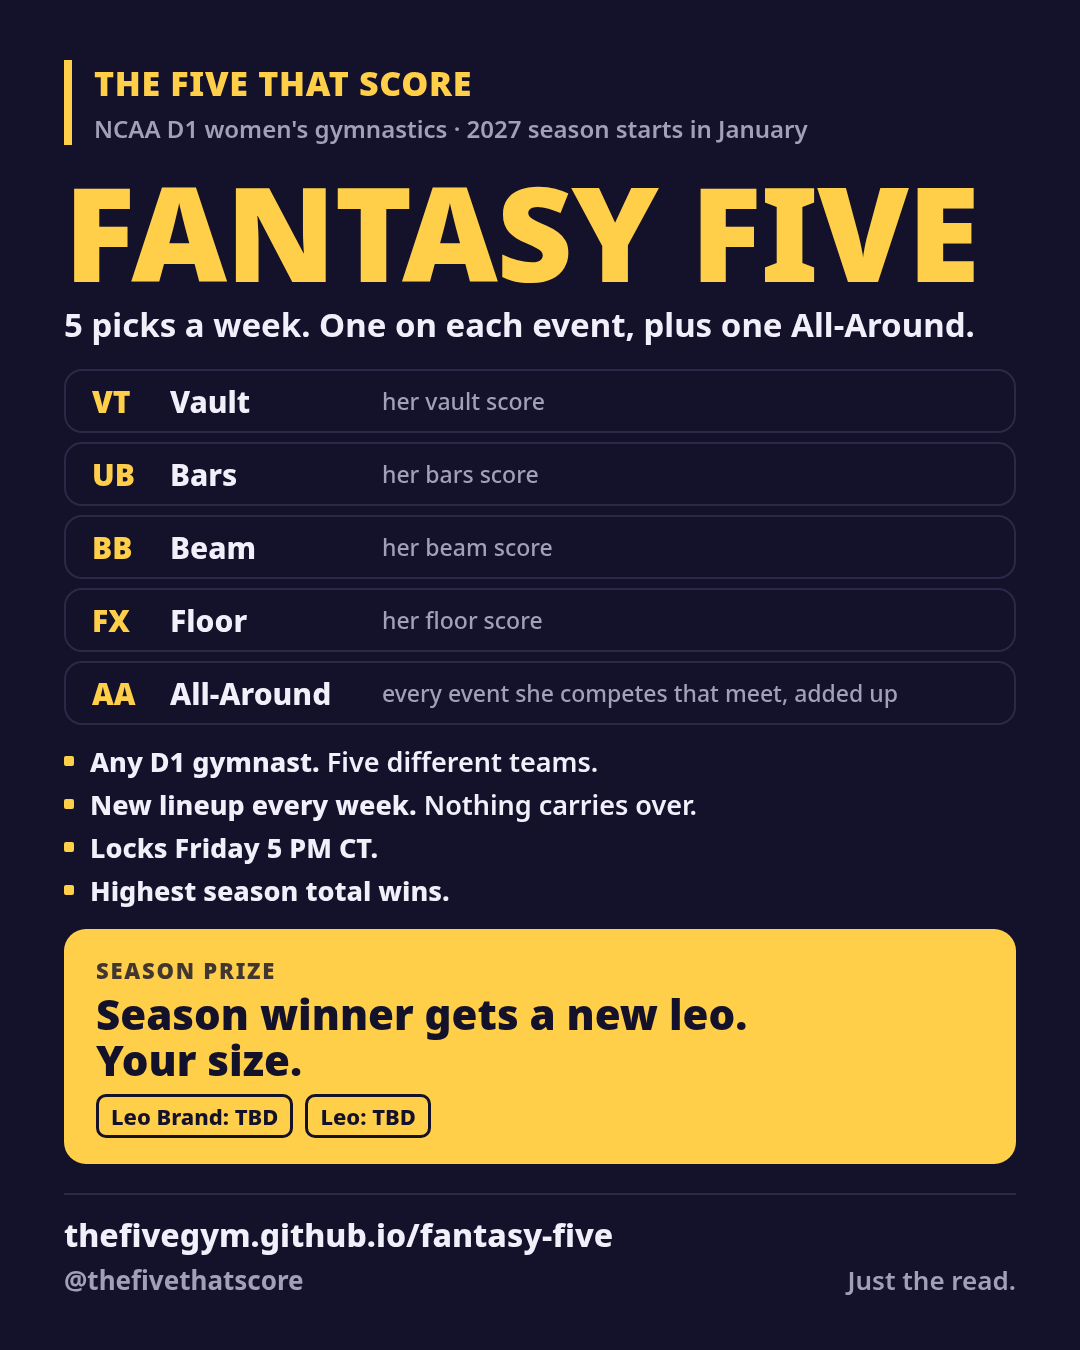
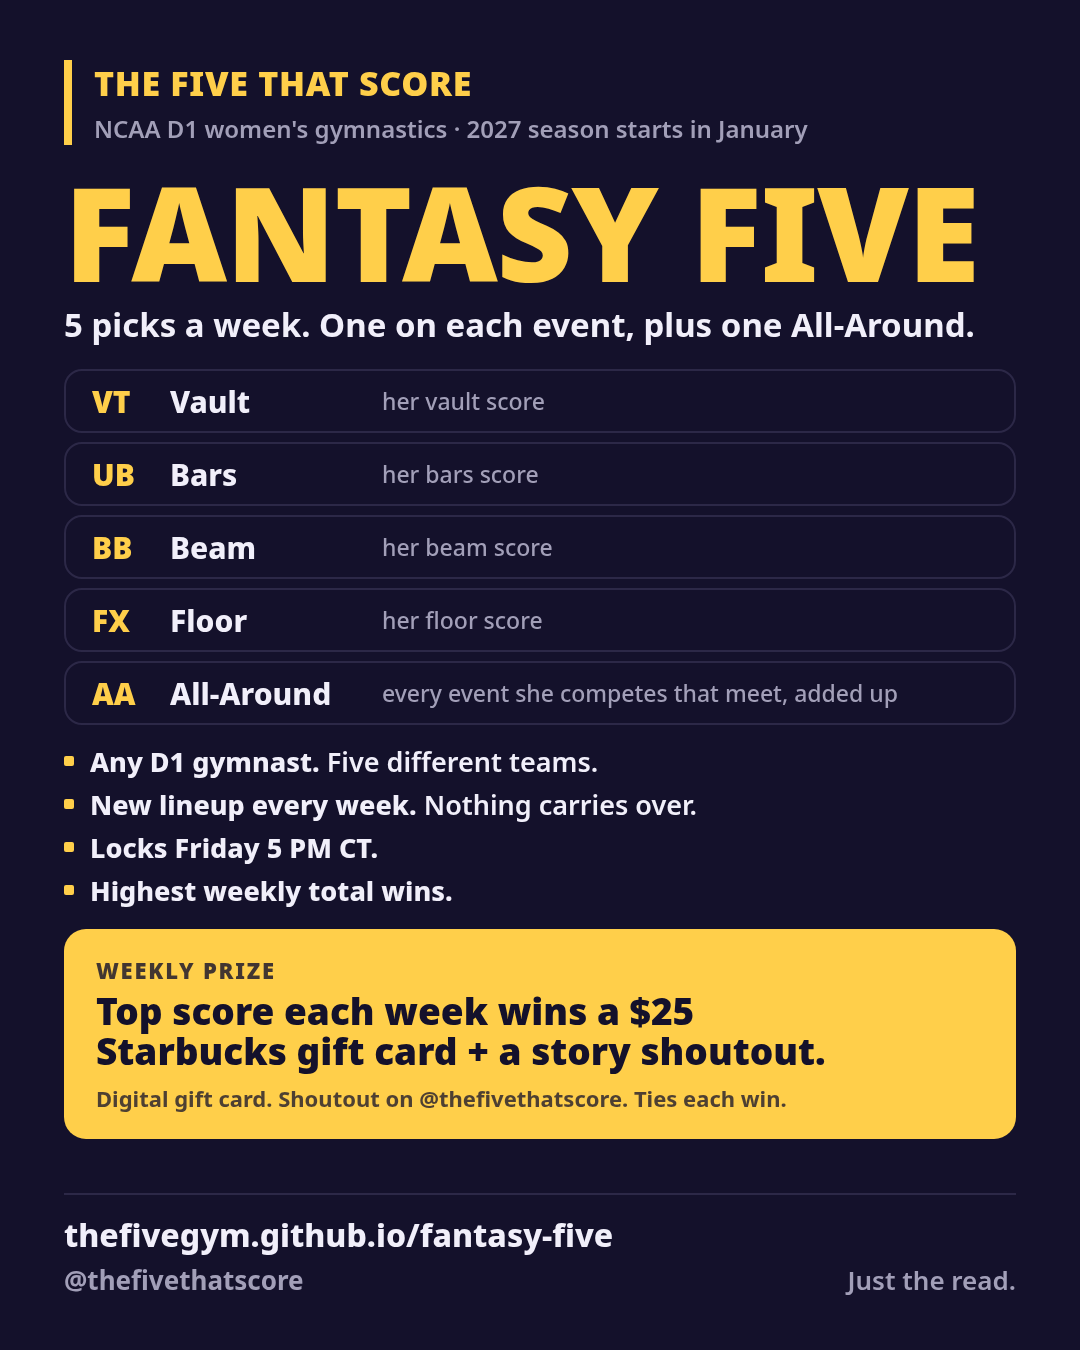
Weekly prize replaces season prize: $25 Starbucks gift card + story shoutout; ties each win; winner.mjs --week; promo re-render

Changed region(s): [[0.0611, 0.7156, 0.9472, 0.8711], [0.1833, 0.6533, 0.4278, 0.6844]]

diff --git a/assets/promo/promo.html b/assets/promo/promo.html
@@ -22,8 +22,7 @@ h1{font-weight:900;color:var(--gold);line-height:.92;letter-spacing:-.01em}
 .prize{background:var(--gold);color:var(--navy);border-radius:22px}
 .prize .lab{font-weight:900;letter-spacing:.08em;opacity:.8}
 .prize .big{font-weight:900;line-height:1.08}
-.prize .tags{display:flex;gap:12px;flex-wrap:nowrap}
-.prize .tbd{display:inline-block;white-space:nowrap;border:3px solid var(--navy);border-radius:10px;font-weight:800}
+.prize .fine{font-weight:700;opacity:.75}
 .foot{display:flex;justify-content:space-between;align-items:flex-end;border-top:2px solid var(--line)}
 .url{color:var(--ink);font-weight:800}
 .hand{color:var(--mute);font-weight:700}
@@ -36,17 +35,17 @@ h1{font-weight:900;color:var(--gold);line-height:.92;letter-spacing:-.01em}
 .feed .slots{gap:9px}
 .feed .slot{height:64px;padding:0 26px;gap:22px}.feed .slot .k{font-size:30px;width:56px}.feed .slot .n{font-size:30px;width:190px}.feed .slot .d{font-size:23px}
 .feed .rules{gap:6px;margin:18px 0 20px;font-size:27px;color:var(--ink)}
-.feed .prize{padding:26px 32px}.feed .prize .lab{font-size:22px}.feed .prize .big{font-size:42px;margin:6px 0 12px}.feed .prize .tbd{font-size:22px;padding:4px 12px}
+.feed .prize{padding:26px 32px}.feed .prize .lab{font-size:22px}.feed .prize .big{font-size:37px;margin:6px 0 12px}.feed .prize .fine{font-size:22px}
 .feed .foot{margin-top:auto;padding-top:18px}.feed .url{font-size:32px}.feed .hand{font-size:26px;margin-top:6px}.feed .tag{font-size:26px}
 /* ---------- IG story 1080x1920 (text kept inside y 250..1670) ---------- */
-.story{width:1080px;height:1920px;padding:264px 72px 0}
+.story{width:1080px;height:1920px;padding:256px 72px 0}
 .story .kick .t{font-size:38px}.story .kick .s{font-size:27px}
 .story h1{font-size:128px;margin:30px 0 12px}
 .story .lede{font-size:31px;margin-bottom:24px}
 .story .slots{gap:10px}
 .story .slot{height:76px;padding:0 26px;gap:20px}.story .slot .k{font-size:33px;width:62px}.story .slot .n{font-size:32px;width:196px}.story .slot .d{font-size:23px}
-.story .rules{gap:10px;margin:26px 0 26px;font-size:30px}
-.story .prize{padding:30px 34px}.story .prize .lab{font-size:24px}.story .prize .big{font-size:46px;margin:8px 0 14px}.story .prize .tbd{font-size:24px;padding:5px 14px}
+.story .rules{gap:8px;margin:22px 0 22px;font-size:30px}
+.story .prize{padding:30px 34px}.story .prize .lab{font-size:24px}.story .prize .big{font-size:38px;margin:8px 0 12px}.story .prize .fine{font-size:24px}
 .story .foot{margin-top:26px;padding-top:22px}.story .url{font-size:34px}.story .hand{font-size:28px;margin-top:6px}.story .tag{font-size:28px}
 /* ---------- X 1600x900 ---------- */
 .x{width:1600px;height:900px;padding:46px 64px 40px}
@@ -57,7 +56,7 @@ h1{font-weight:900;color:var(--gold);line-height:.92;letter-spacing:-.01em}
 .x .slots{gap:8px}
 .x .slot{height:62px;padding:0 24px;gap:20px}.x .slot .k{font-size:28px;width:52px}.x .slot .n{font-size:28px;width:170px}.x .slot .d{font-size:20px}
 .x .rules{gap:18px;margin:4px 0 0;font-size:25px}
-.x .prize{padding:30px 34px;flex:1;margin-top:28px;display:flex;flex-direction:column;justify-content:center}.x .prize .lab{font-size:22px}.x .prize .big{font-size:46px;margin:12px 0 20px}.x .prize .tbd{font-size:22px;padding:5px 14px}
+.x .prize{padding:30px 34px;flex:1;margin-top:28px;display:flex;flex-direction:column;justify-content:center}.x .prize .lab{font-size:22px}.x .prize .big{font-size:46px;margin:12px 0 20px}.x .prize .fine{font-size:21px;line-height:1.35}
 .x .foot{padding-top:16px;margin-top:20px}.x .url{font-size:30px}.x .hand{font-size:24px;margin-top:4px}.x .tag{font-size:24px}
 .x .right{display:flex;flex-direction:column;padding:14px 0 0}
 </style></head><body>
@@ -73,9 +72,9 @@ h1{font-weight:900;color:var(--gold);line-height:.92;letter-spacing:-.01em}
   <li><span><b>Any D1 gymnast.</b> Five different teams.</span></li>
   <li><span><b>New lineup every week.</b> Nothing carries over.</span></li>
   <li><span><b>Locks Friday 5 PM CT.</b></span></li>
-  <li><span><b>Highest season total wins.</b></span></li>
+  <li><span><b>Highest weekly total wins.</b></span></li>
 </ul></template>
-<template id="prize"><div class="prize"><div class="lab">SEASON PRIZE</div><div class="big">Season winner gets a new leo.<br>Your size.</div><div class="tags"><span class="tbd">Leo Brand: TBD</span><span class="tbd">Leo: TBD</span></div></div></template>
+<template id="prize"><div class="prize"><div class="lab">WEEKLY PRIZE</div><div class="big">Top score each week wins a $25<br>Starbucks gift card + a story shoutout.</div><div class="fine">Digital gift card. Shoutout on @thefivethatscore. Ties each win.</div></div></template>
 <template id="foot"><div class="foot"><div><div class="url">thefivegym.github.io/fantasy-five</div><div class="hand">@thefivethatscore</div></div><div class="tag">Just the read.</div></div></template>
 <div id="root"></div>
 <script>
@@ -86,7 +85,8 @@ const head = `${T('kick')}<h1>FANTASY FIVE</h1><div class="lede">5 picks a week.
 c.innerHTML = f === 'x'
   ? `<div class="cols"><div>${head}${T('slots')}</div><div class="right">${T('rules')}${T('prize')}</div></div>${T('foot')}`
   : `${head}${T('slots')}${T('rules')}${T('prize')}${T('foot')}`;
-if (f === 'x') c.querySelector('.prize .big').innerHTML = 'Season winner<br>gets a new leo.<br>Your size.';
+if (f === 'x') c.querySelector('.prize .big').innerHTML = 'Top score each week<br>wins a $25 Starbucks<br>gift card + a story<br>shoutout.';
+if (f === 'x') c.querySelector('.prize .fine').innerHTML = 'Digital gift card. Ties each win.<br>Shoutout on @thefivethatscore.';
 document.getElementById('root').append(c);
 // overflow report for the checker
 const r = c.getBoundingClientRect(), bad = [];

diff --git a/index.html b/index.html
@@ -22,16 +22,17 @@
   <section class="card">
     <h2>How it works</h2>
     <ol class="rules">
-      <li><a href="signup.html">Sign up</a> once with your GitHub login and your Instagram handle. No sign-up, no lineup. The handle is public on the leaderboard; it's how we contact the season winner.</li>
+      <li><a href="signup.html">Sign up</a> once with your GitHub login and your Instagram handle. No sign-up, no lineup. The handle is public on the leaderboard; it's how we contact weekly winners.</li>
       <li>Five picks a week: one Vault, one Bars, one Beam, one Floor, one All-Around. Anywhere in D1.</li>
       <li>Event picks score her real score on that event. All-Around: any gymnast. Her score is every event she competes that meet, added up.</li>
       <li>Five different teams, and a gymnast fills one slot. Team total is the five scores added up: about 80 with an all-arounder in the AA slot, less with a specialist.</li>
       <li>Competes twice: best score (or best AA meet) counts; AA never mixes meets. Doesn't compete that slot: 0.</li>
       <li>New lineup every week. Nothing carries over; no lineup, no score.</li>
       <li>Lineups lock Friday 5:00 PM CT, before the week's first meet. Submit through a GitHub issue; your login is your name on the board.</li>
+      <li>Highest weekly total wins. Ties for the top score: each gets the prize. The season leaderboard adds up weekly totals for bragging rights only.</li>
       <li>Optional reminder every Wednesday 10 AM CT. Reminders arrive as a GitHub mention. Check your GitHub email notifications are on.</li>
     </ol>
-    <p class="prize-line"><b>Season prize:</b> a new leo for the season winner. Your size. Leo brand: TBD. Leo: TBD.</p>
+    <p class="prize-line"><b>Weekly prize:</b> Weekly winner gets a $25 digital Starbucks gift card and a story shoutout on @thefivethatscore. Highest weekly total wins. Tied for the top score: each gets the prize. The season leaderboard is standings and bragging rights only.</p>
   </section>
   <section class="card">
     <h2>Go</h2>

diff --git a/signup.html b/signup.html
@@ -29,7 +29,7 @@
       <p class="sub" id="err" role="alert"></p>
       <button class="btn primary" id="go" type="submit">Open GitHub issue</button>
     </form>
-    <p class="sub"><b>Your IG handle is public on the leaderboard. It's how we contact the season winner.</b> A handle or instagram.com link both work; it's saved lowercase, letters, digits, . and _ only, up to 30 characters.</p>
+    <p class="sub"><b>Your IG handle is public on the leaderboard. It's how we contact weekly winners.</b> A handle or instagram.com link both work; it's saved lowercase, letters, digits, . and _ only, up to 30 characters.</p>
     <p class="sub">Then press <b>Create</b> on GitHub. A bot saves your sign-up, comments, and closes the issue within a minute or two. Signing up again replaces your handle and reminder setting.</p>
     <p class="sub"><b>Reminders arrive as a GitHub mention. Check your GitHub email notifications are on</b> (GitHub → Settings → Notifications → Email for participating and @mentions).</p>
   </section>

diff --git a/leaderboard.html b/leaderboard.html
@@ -23,6 +23,7 @@
     <select id="week" aria-label="Week"></select>
   </div>
   <div class="count" id="meta"></div>
+  <p class="prize-line" id="prizenote" hidden></p>
   <div class="card tscroll" style="padding:0"><table class="t" id="tbl"><thead></thead><tbody></tbody></table></div>
 </main>
 <script>
@@ -44,6 +45,9 @@ FF.chrome('leaderboard.html');
   async function render() {
     const view = $('view').value;
     $('week').hidden = view !== 'week';
+    const pn = $('prizenote'); pn.hidden = FF.isDemo(s);
+    pn.innerHTML = view === 'season' ? 'Season standings: bragging rights only. No prize. The prize is weekly.'
+      : '<b>Weekly prize:</b> top score this week wins a $25 digital Starbucks gift card and a story shoutout on @thefivethatscore. Ties each get one.';
     const thead = document.querySelector('#tbl thead'), tbody = document.querySelector('#tbl tbody');
     if (view === 'season') {
       $('title').textContent = `Season leaderboard · ${FF.isDemo(s) ? 'DEMO' : sid}`;

diff --git a/assets/style.css b/assets/style.css
@@ -97,7 +97,7 @@ canvas.cardcanvas { width: 100%; max-width: 540px; height: auto; border-radius: 
 .slotlab { display: inline-block; min-width: 34px; font-weight: 800; font-size: .78rem; color: var(--muted); letter-spacing: .04em; }
 #board .slot { min-height: 54px; }
 
-/* season prize line on home */
+/* weekly prize line (home, leaderboard) */
 .prize-line { margin: 12px 0 2px; padding: 10px 14px; border-left: 5px solid var(--accent); background: color-mix(in srgb, var(--accent) 16%, transparent); border-radius: 8px; font-weight: 600; }
 
 /* sign-up form */

diff --git a/README.md b/README.md
@@ -26,7 +26,8 @@ Weekly fantasy game for NCAA Division I women's artistic gymnastics, by The Five
 - A week runs **Friday through Thursday** (America/Chicago dates). Lineups **lock** at the week's `lock`
   timestamp in `data/season.json` (default Friday 5:00 PM CT, before the first meet). Every D1 meet dated in
   the window counts.
-- Highest weekly total wins the week. The season leaderboard is the sum of weekly totals.
+- **Highest weekly total wins.** Weekly winner gets a $25 digital Starbucks gift card and a story shoutout on @thefivethatscore. Tied for the top score: each gets the prize. The season leaderboard
+  is the sum of weekly totals: standings and bragging rights only, no prize. The DEMO week has no prize.
 - Schema 1 (5 per event, 20 slots) is retired; the workflow rejects it with "Old format".
 
 ## Sign-up (required): GitHub login + Instagram handle
@@ -34,7 +35,7 @@ Weekly fantasy game for NCAA Division I women's artistic gymnastics, by The Five
 A lineup is only accepted from a GitHub login with `data/players/<login>.json`. Otherwise:
 "Sign up first: https://thefivegym.github.io/fantasy-five/signup.html. Then submit the lineup again."
 GitHub stays the sign-in and the submission method. Instagram is a typed handle (a real "Log in with Instagram"
-needs a server), used so the organizer can DM the season winner.
+needs a server), used so the organizer can DM each weekly winner.
 
 1. `signup.html`: Instagram handle (required) and a weekly-reminder checkbox (default on). The handle is
    normalized by `scripts/lib/instagram.mjs` (shared by the page and the workflow): strip a leading `@` and any
@@ -47,10 +48,11 @@ needs a server), used so the organizer can DM the season winner.
    "Signed up: @login. IG: @handle. Weekly reminders: on.", closes the issue. Signing up again updates the handle
    and keeps `joined_at`. `{"type":"reminders","reminders":false}` (the "Turn reminders off" button) changes only
    the flag. Closed sign-up issues are ignored if edited later.
-3. **Your IG handle is public on the leaderboard. It's how we contact the season winner.** Nothing is encrypted
+3. **Your IG handle is public on the leaderboard. It's how we contact weekly winners.** Nothing is encrypted
    because nothing private is stored.
-4. Organizer: `node scripts/admin/winner.mjs --winner` prints the season #1 (all of them on a tie) with total and
-   IG handle + link. No flag: every signed-up player.
+4. Organizer: `node scripts/admin/winner.mjs` prints the latest scored week's winner(s) with total and IG handle +
+   link (ties: everyone tied for the top score; each gets the prize). `--week=<n>` for a given week, `--standings`
+   for the season table (no prize), `--players` for every signed-up player.
 
 ## Weekly reminder
 
@@ -146,7 +148,7 @@ assets/style.css assets/common.js                                          share
 scripts/lib/{config,scoring,io,names}.mjs                                  game constants + scoring engine
 scripts/process-lineup.mjs  scripts/process-signup.mjs  scripts/remind.mjs  scripts/score.mjs  scripts/fetch-scores-rtn.mjs
 scripts/lib/players.mjs scripts/lib/instagram.mjs  scripts/build-players-index.mjs   player records, IG handle rules, public index
-scripts/admin/winner.mjs                                                    season winner(s) + IG handle
+scripts/admin/winner.mjs                                                    weekly winner(s) + IG handle, standings, players
 scripts/seed-demo.mjs                                                       builds the 5 sample DEMO-* lineups, schema 2 (2026 RTN rankings + week schedule only)
 scripts/test/scoring.test.mjs                                               node --test scripts/test/*.test.mjs
 scripts/roster/                                                             offline roster builder

diff --git a/assets/promo/captions.md b/assets/promo/captions.md
@@ -2,7 +2,7 @@
 
 Images in this folder:
 - fantasy-five-ig-feed-1080x1350.png (Instagram feed, 4:5)
-- fantasy-five-ig-story-1080x1920.png (Instagram story; text sits between y=264 and y=1650)
+- fantasy-five-ig-story-1080x1920.png (Instagram story; text sits between y=256 and y=1597)
 - fantasy-five-x-1600x900.png (X, 16:9)
 
 ## Instagram caption
@@ -11,9 +11,9 @@ Fantasy Five. A weekly fantasy game for NCAA D1 women's gymnastics.
 
 5 picks a week: one each on Vault, Bars, Beam and Floor, plus one All-Around. Her All-Around score is every event she competes that meet, added up.
 
-Any D1 gymnast. Five different teams. New lineup every week; nothing carries over. Lineups lock Friday 5 PM CT. Highest season total wins.
+Any D1 gymnast. Five different teams. New lineup every week; nothing carries over. Lineups lock Friday 5 PM CT. Highest weekly total wins.
 
-Season prize: a new leo for the winner. Your size. Leo brand: TBD. Leo: TBD.
+Weekly prize: the top score each week wins a $25 digital Starbucks gift card and a story shoutout on @thefivethatscore. Tied for the top score: each gets the prize. The season leaderboard is bragging rights only.
 
 2027 season starts in January. Rules, rosters and the builder: thefivegym.github.io/fantasy-five (link in bio).
 
@@ -21,8 +21,8 @@ Just the read.
 
 #NCAAGym #FantasyFive #NCAAGymnastics #CollegeGymnastics #WomensGymnastics
 
-## X post (279 characters as written; X counts the link as 23, so 269)
+## X post (283 characters as written; X counts the link as 23, so 273)
 
-Fantasy Five. 5 picks a week: Vault, Bars, Beam, Floor, plus one All-Around (every event she competes that meet, added up). Any D1 gymnast. Five different teams. New lineup weekly. Highest season total wins a new leo, your size. Starts January.
+Fantasy Five. 5 picks a week: Vault, Bars, Beam, Floor, plus one All-Around (every event she competes that meet, added up). Any D1 gymnast. Five different teams. Top score each week wins a $25 Starbucks gift card + a story shoutout. Starts January.
 
 thefivegym.github.io/fantasy-five
